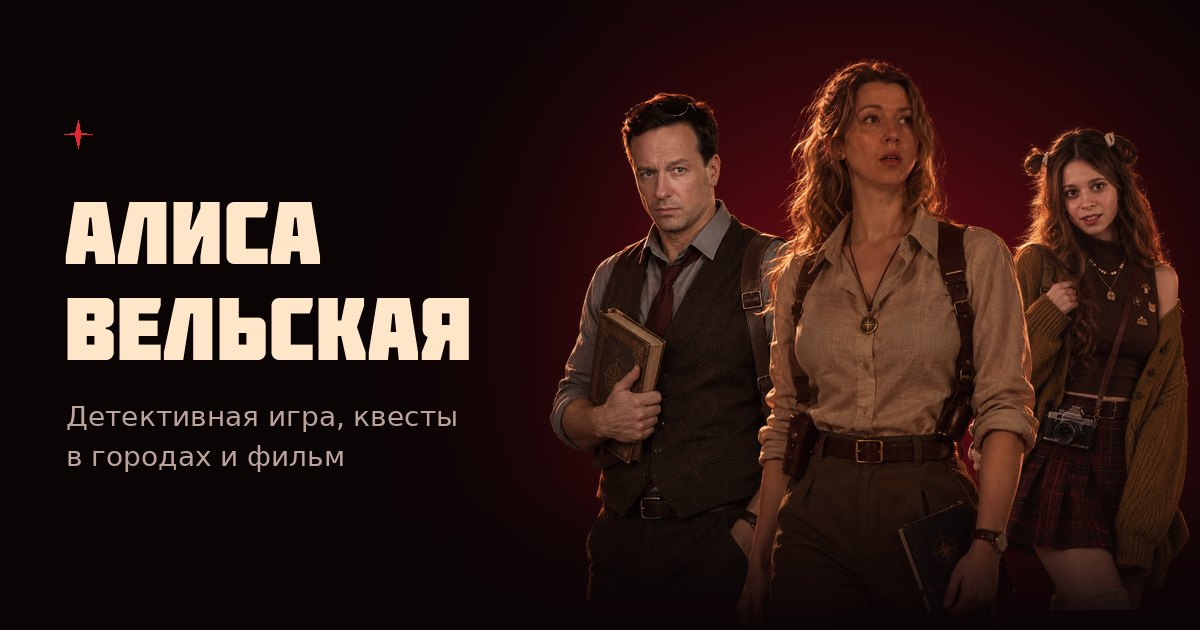
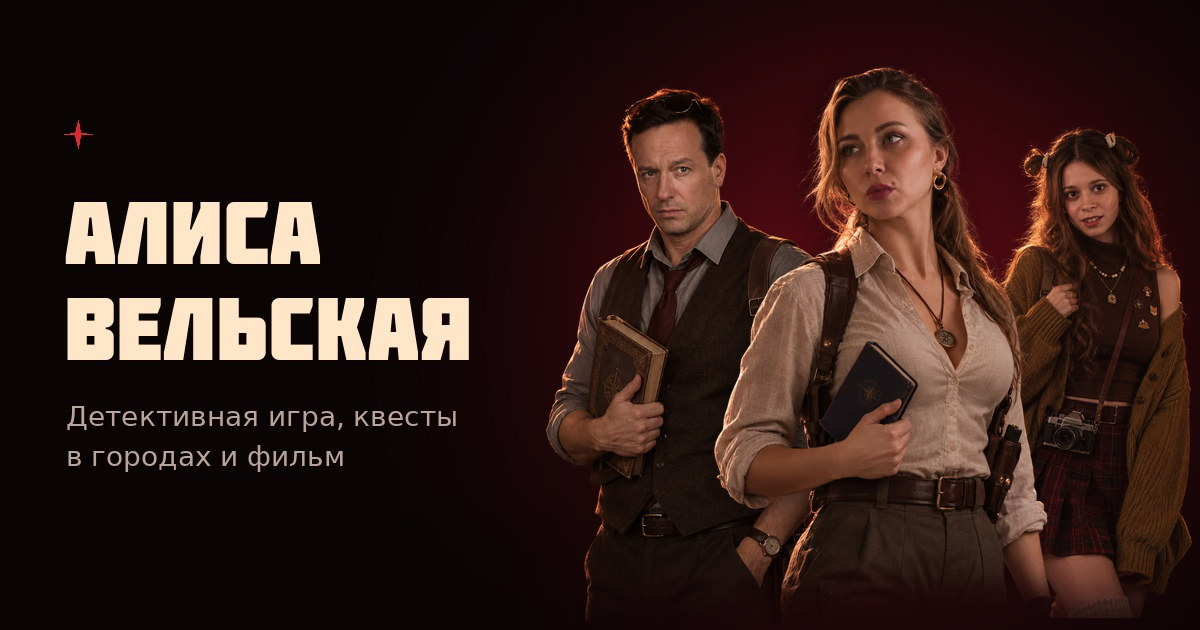
Превью ссылок: Алиса с первого экрана вместо другой женщины

Changed region(s): [[0.4317, 0.0905, 1.0, 0.9952], [0.8942, 0.3619, 0.9867, 0.5127], [0.9867, 0.6937, 1.0, 0.7841]]

diff --git a/index.html b/index.html
@@ -14,7 +14,7 @@
 <meta property="og:url" content="https://alisavelskaya.ru/">
 <meta property="og:title" content="Алиса Вельская: детективная игра и фильм">
 <meta property="og:description" content="Пропавший профессор, древние Наследия и Орден, о котором не говорят вслух. Игра в браузере, квесты в городах и фильм.">
-<meta property="og:image" content="https://alisavelskaya.ru/img/og.jpg">
+<meta property="og:image" content="https://alisavelskaya.ru/img/og.jpg?v=2">
 <meta property="og:image:width" content="1200">
 <meta property="og:image:height" content="630">
 <link rel="preload" href="fonts/inter-cyr.woff2" as="font" type="font/woff2" crossorigin>
@@ -23,7 +23,7 @@
 <script type="application/ld+json">
 {"@context":"https://schema.org","@graph":[
 {"@type":"WebSite","name":"Алиса Вельская","url":"https://alisavelskaya.ru/","inLanguage":"ru"},
-{"@type":"VideoGame","name":"Алиса Вельская","url":"https://alisavelskaya.ru/","image":"https://alisavelskaya.ru/img/og.jpg","description":"Детективная визуальная новелла в браузере. Из музейной витрины пропал тубус профессора Вельского: осмотрите места, допросите свидетелей и соберите улики. После пролога открываются штаб и карта экспедиций по городам России.","genre":["Детектив","Визуальная новелла"],"gamePlatform":["Браузер","Компьютер","Телефон"],"inLanguage":"ru"}
+{"@type":"VideoGame","name":"Алиса Вельская","url":"https://alisavelskaya.ru/","image":"https://alisavelskaya.ru/img/og.jpg?v=2","description":"Детективная визуальная новелла в браузере. Из музейной витрины пропал тубус профессора Вельского: осмотрите места, допросите свидетелей и соберите улики. После пролога открываются штаб и карта экспедиций по городам России.","genre":["Детектив","Визуальная новелла"],"gamePlatform":["Браузер","Компьютер","Телефон"],"inLanguage":"ru"}
 ]}
 </script>
 <style>

diff --git a/partners.html b/partners.html
@@ -14,7 +14,7 @@
 <meta property="og:url" content="https://alisavelskaya.ru/partners.html">
 <meta property="og:title" content="Партнёрам: вселенная Алисы Вельской">
 <meta property="og:description" content="Вселенная Алисы Вельской для бизнеса: место в сюжете фильма, сериала, игр, книг и экспедиций. От кофейни до региона.">
-<meta property="og:image" content="https://alisavelskaya.ru/img/og.jpg">
+<meta property="og:image" content="https://alisavelskaya.ru/img/og.jpg?v=2">
 <link rel="preload" href="fonts/molot.otf" as="font" type="font/otf" crossorigin>
 <link rel="preconnect" href="https://fonts.googleapis.com">
 <link rel="stylesheet" href="https://fonts.googleapis.com/css2?family=Inter:wght@400;500;600;700&display=swap">

diff --git a/prazdnichnyj-perepoloh.html b/prazdnichnyj-perepoloh.html
@@ -14,7 +14,7 @@
 <meta property="og:url" content="https://alisavelskaya.ru/prazdnichnyj-perepoloh.html">
 <meta property="og:title" content="Праздничный переполох">
 <meta property="og:description" content="Новогоднее дело Алисы Вельской для кофейни: пять стаканов, пять загадок в телефоне. Одна история на одну кофейню.">
-<meta property="og:image" content="https://alisavelskaya.ru/img/og.jpg">
+<meta property="og:image" content="https://alisavelskaya.ru/img/og.jpg?v=2">
 <link rel="preload" href="fonts/molot.otf" as="font" type="font/otf" crossorigin>
 <link rel="preconnect" href="https://fonts.googleapis.com">
 <link rel="stylesheet" href="https://fonts.googleapis.com/css2?family=Inter:wght@400;500;600;700&display=swap">

diff --git a/events.html b/events.html
@@ -14,7 +14,7 @@
 <meta property="og:url" content="https://alisavelskaya.ru/events.html">
 <meta property="og:title" content="События для партнёров">
 <meta property="og:description" content="Сезонные события вселенной Алисы Вельской для кафе, магазинов, площадок и городов.">
-<meta property="og:image" content="https://alisavelskaya.ru/img/og.jpg">
+<meta property="og:image" content="https://alisavelskaya.ru/img/og.jpg?v=2">
 <link rel="preload" href="fonts/molot.otf" as="font" type="font/otf" crossorigin>
 <link rel="preconnect" href="https://fonts.googleapis.com">
 <link rel="stylesheet" href="https://fonts.googleapis.com/css2?family=Inter:wght@400;500;600;700&display=swap">

diff --git a/universe.html b/universe.html
@@ -14,7 +14,7 @@
 <meta property="og:url" content="https://alisavelskaya.ru/universe.html">
 <meta property="og:title" content="Вселенная Алисы Вельской">
 <meta property="og:description" content="Пропавший профессор, древние Наследия и Орден, о котором не принято говорить вслух. Герои и завязка истории без спойлеров.">
-<meta property="og:image" content="https://alisavelskaya.ru/img/og.jpg">
+<meta property="og:image" content="https://alisavelskaya.ru/img/og.jpg?v=2">
 <meta property="og:image:width" content="1200">
 <meta property="og:image:height" content="630">
 <link rel="preconnect" href="https://fonts.googleapis.com">

diff --git a/team.html b/team.html
@@ -14,7 +14,7 @@
 <meta property="og:url" content="https://alisavelskaya.ru/team.html">
 <meta property="og:title" content="Команда «Алисы Вельской»">
 <meta property="og:description" content="Актёры, съёмочная группа и игровая команда. Весь арт игры рисуется вручную.">
-<meta property="og:image" content="https://alisavelskaya.ru/img/og.jpg">
+<meta property="og:image" content="https://alisavelskaya.ru/img/og.jpg?v=2">
 <meta property="og:image:width" content="1200">
 <meta property="og:image:height" content="630">
 <link rel="preconnect" href="https://fonts.googleapis.com">
